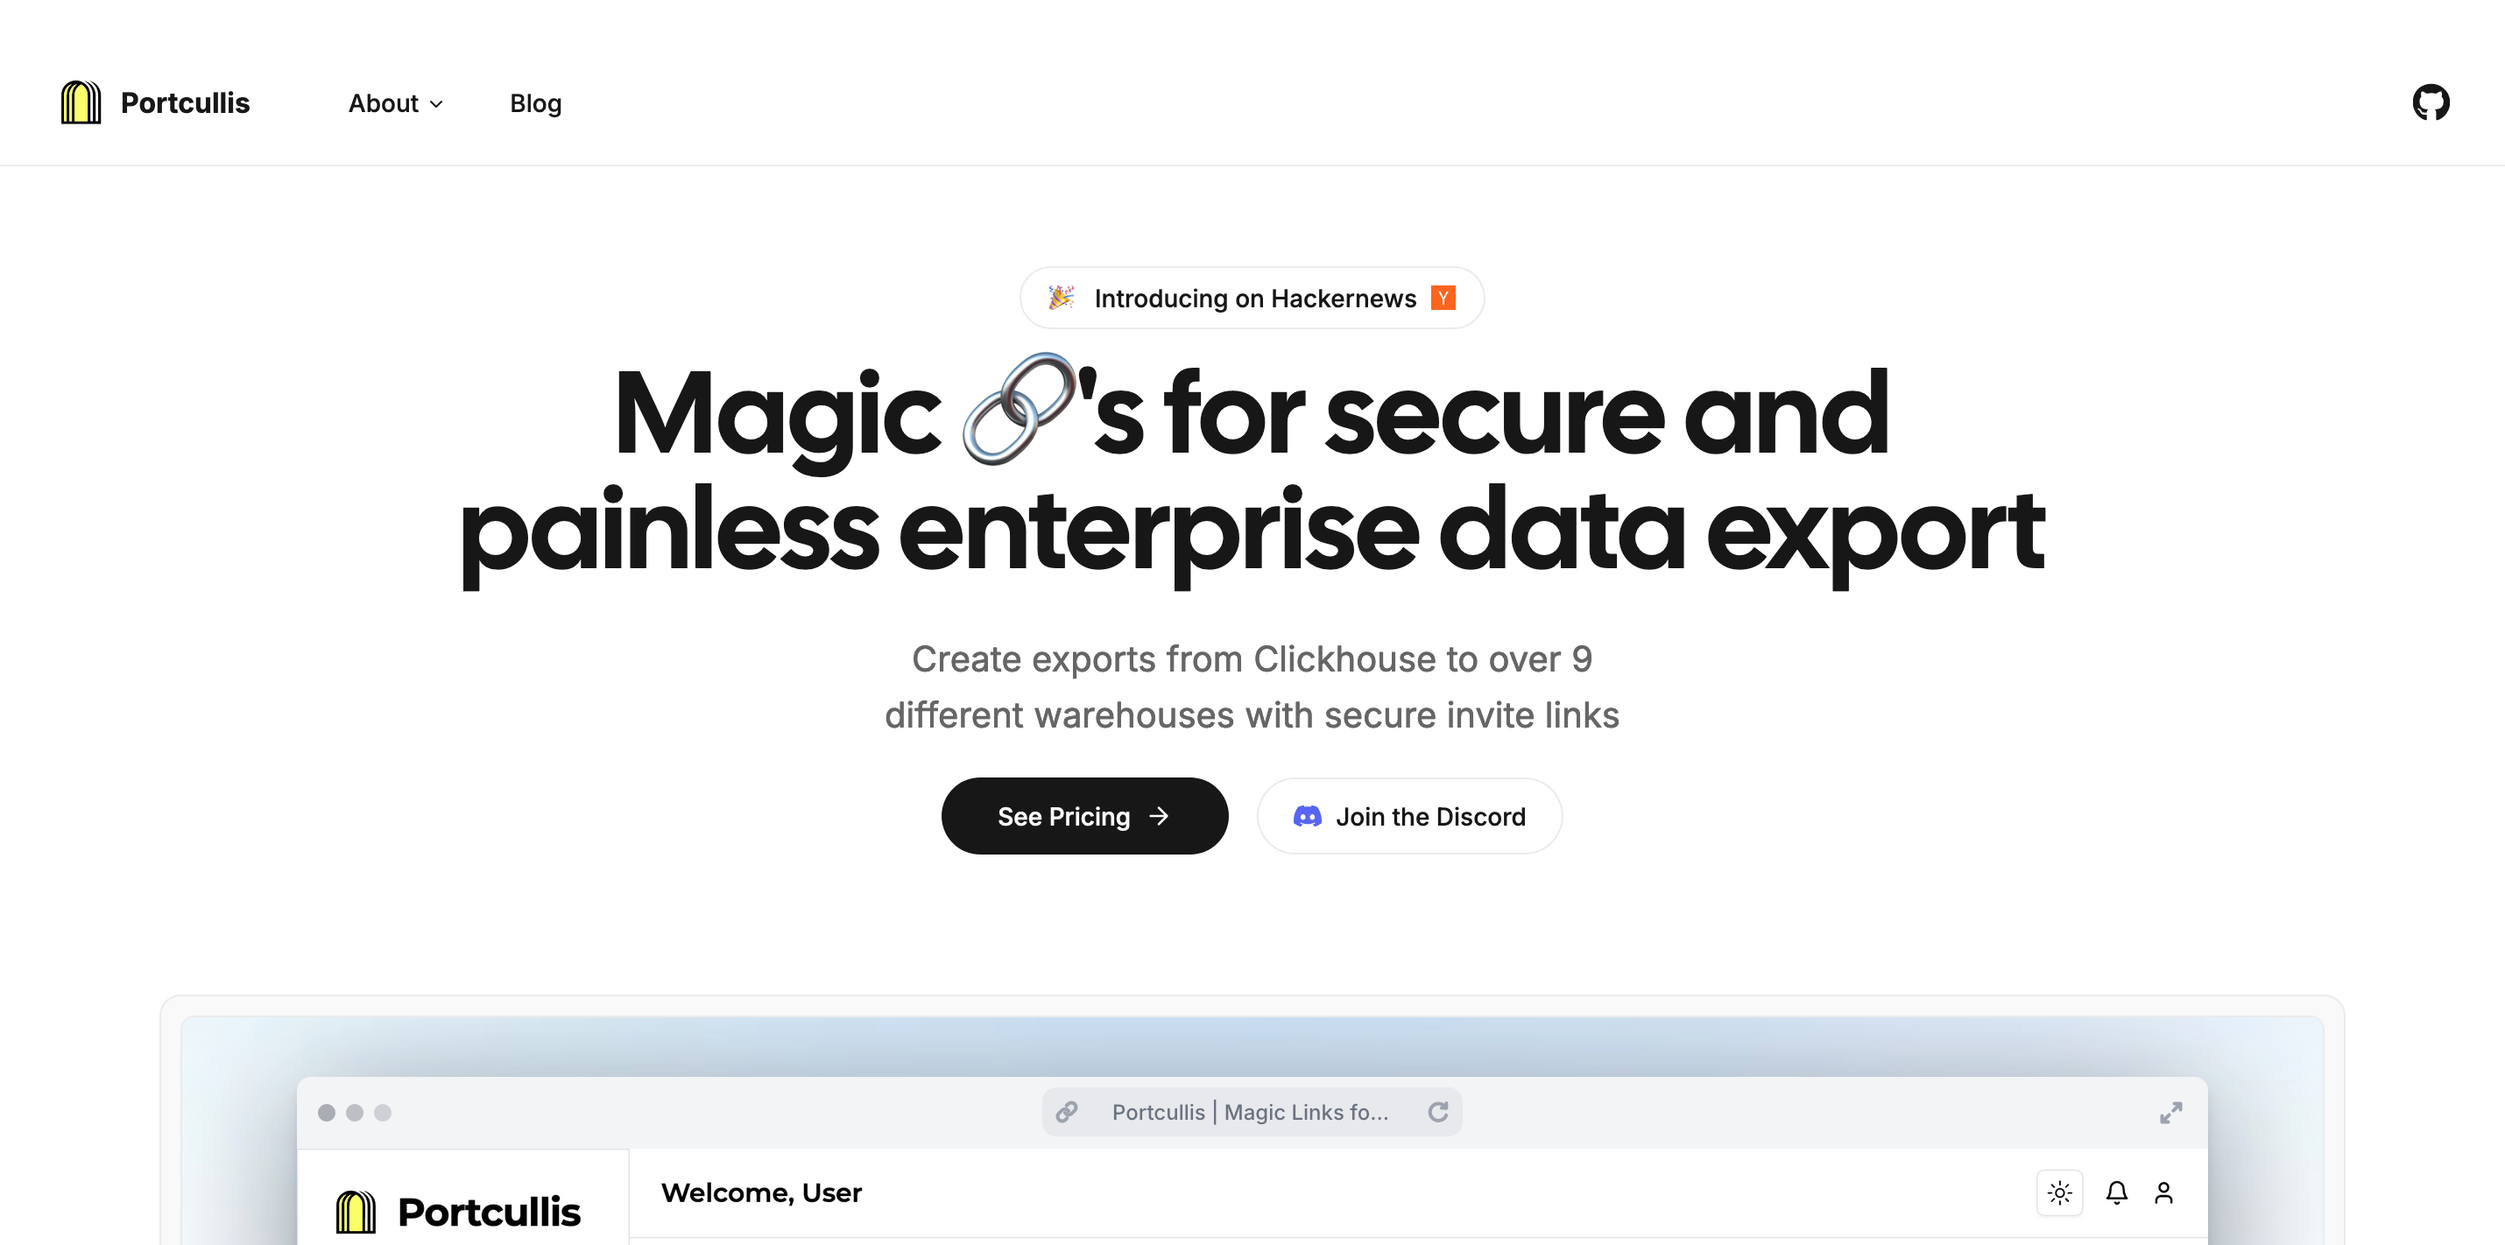
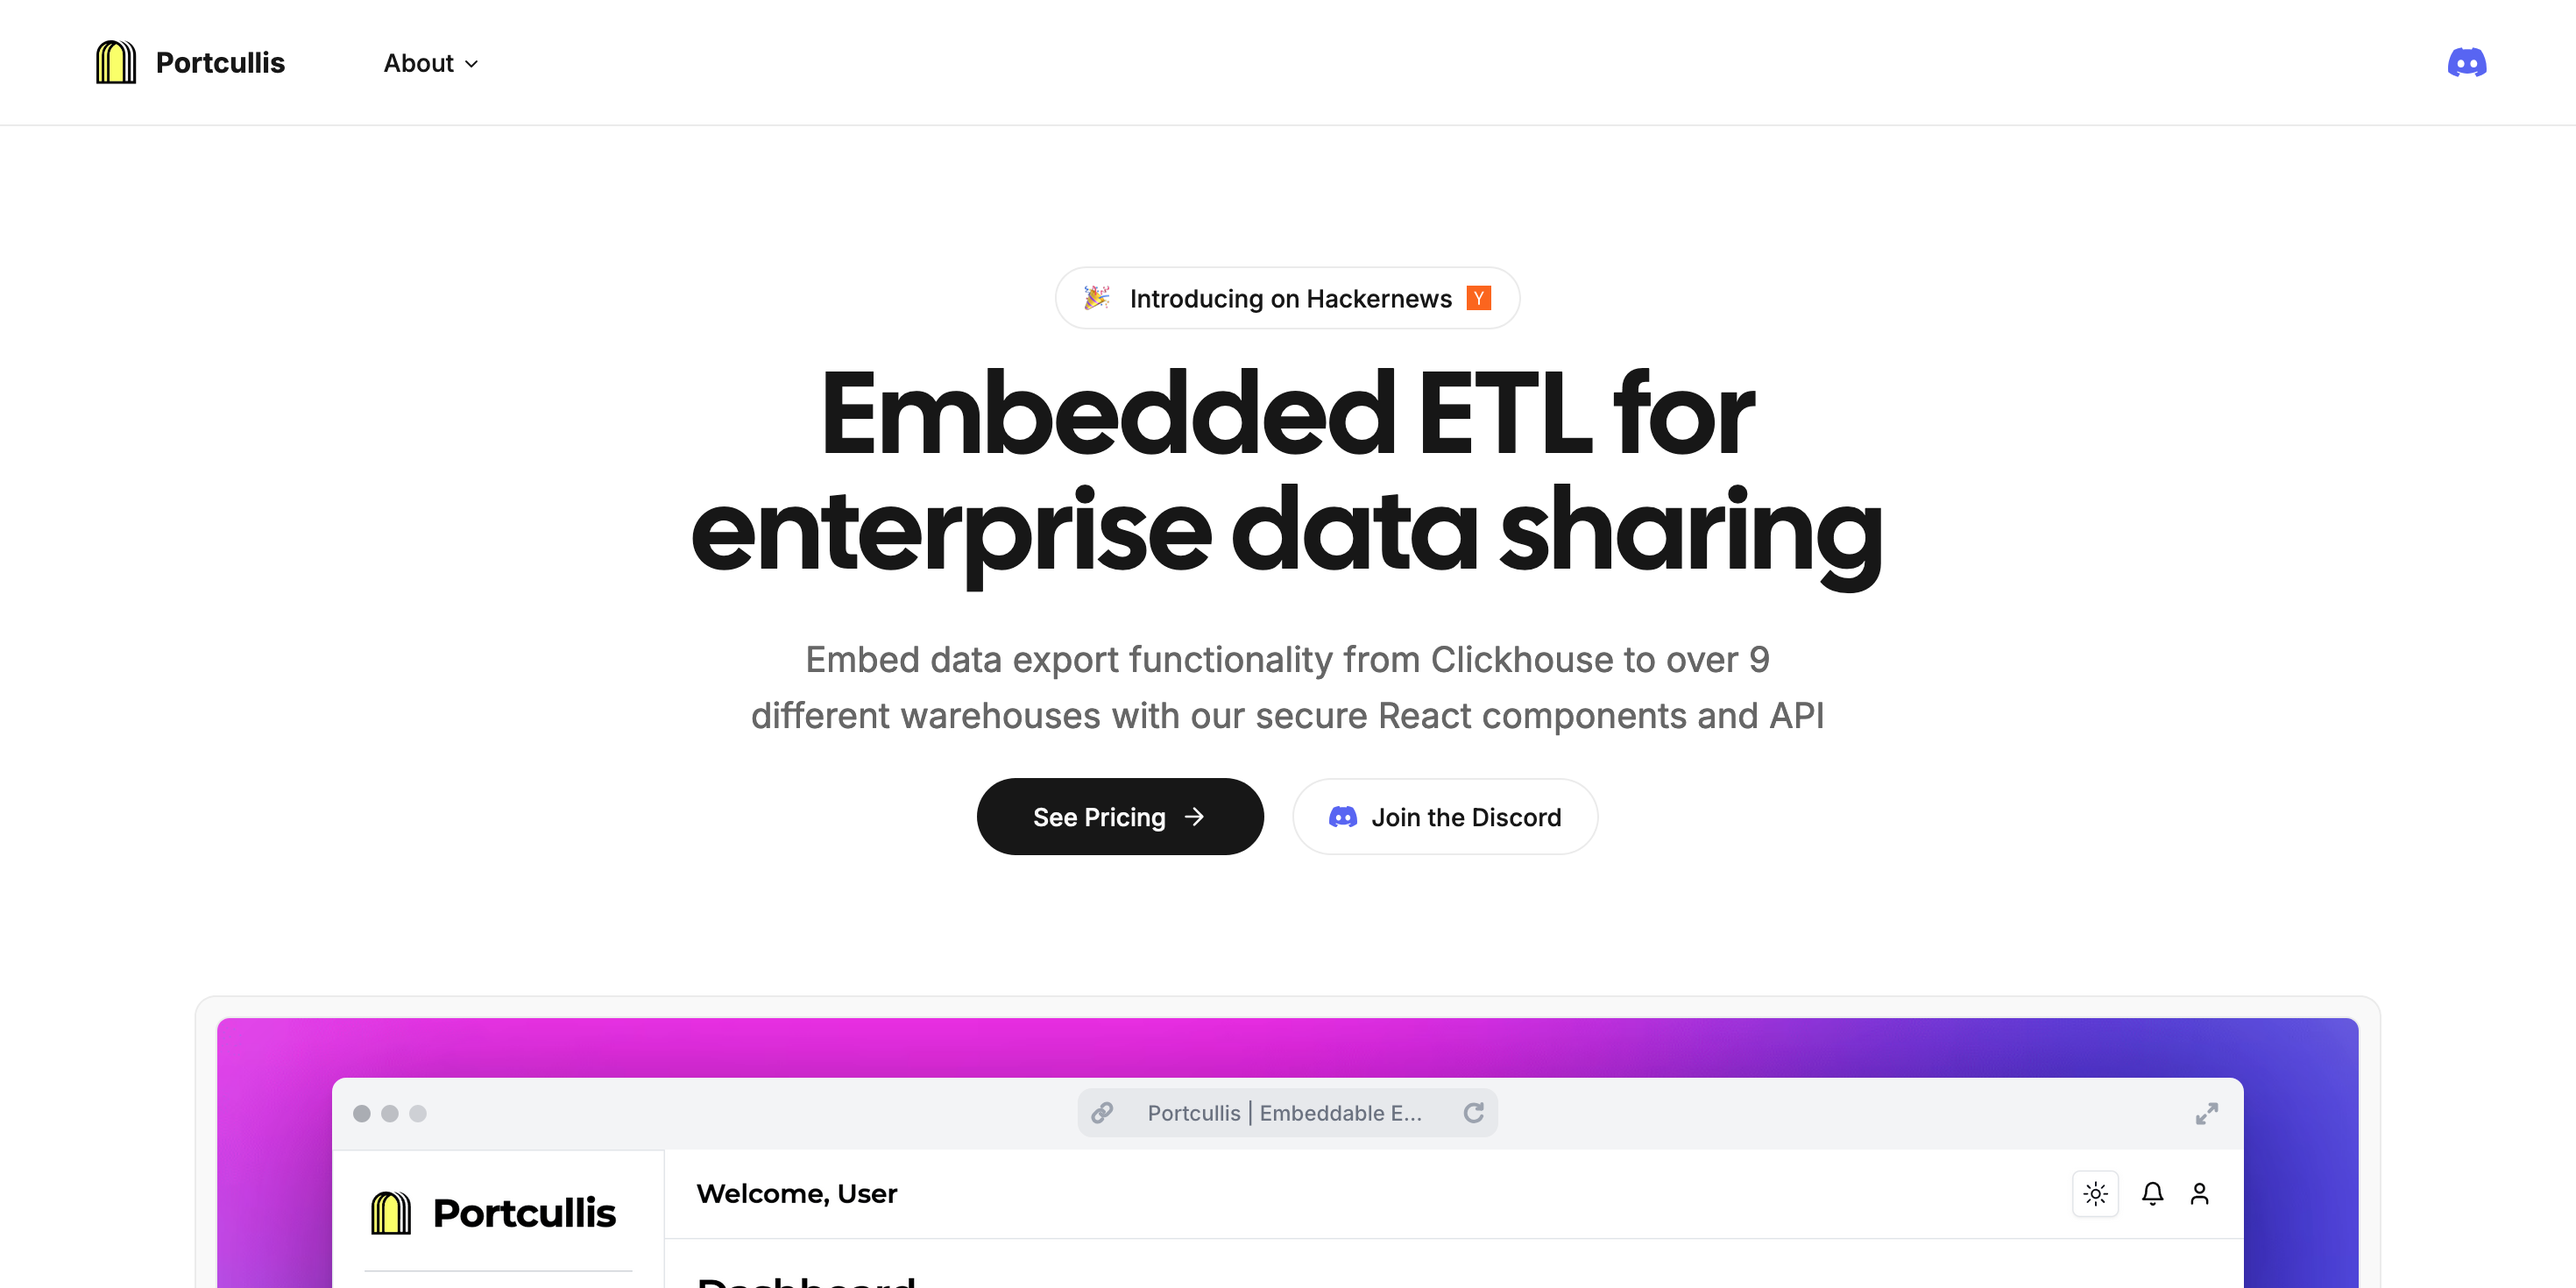
updates

diff --git a/src/config/site.ts b/src/config/site.ts
@@ -3,9 +3,9 @@ import type { SidebarNavItem, SiteConfig } from "@/types";
 export const siteConfig: SiteConfig = {
   name: "Portcullis",
   description:
-    "Magic 🔗's for secure and painless enterprise data export",
+    "Embedded ETL for enterprise data sharing ",
   url: "https://www.runportcullis.co",
-  ogImage: "/og.jpg",
+  ogImage: "/og.png",
   links: {
     twitter: "",
     github: "https://github.com/portcullis-co/",
